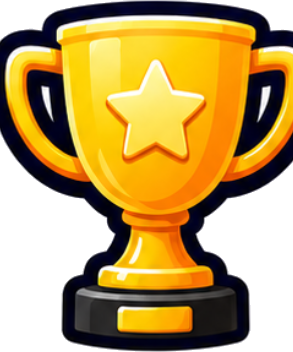
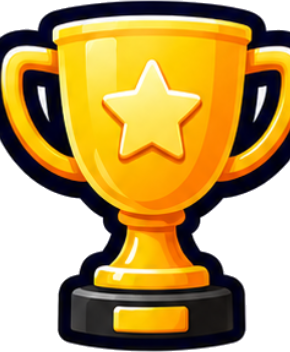
fix(brand): re-slice trophy asset with both handles intact
The trophy slice was cropped inside the handles, so every icon render
showed an amputated cup. Re-extracted from the master lockup via
connected-component isolation (290x352, no letter fragments). Set Goal
sheet now opens with the animated trophy as its hero.

diff --git a/src/components/modals/SetGoalModal.tsx b/src/components/modals/SetGoalModal.tsx
@@ -2,6 +2,7 @@ import React, { useEffect, useState } from 'react';
 import { Pressable, StyleSheet, Text, View } from 'react-native';
 import { Ionicons } from '@expo/vector-icons';
 
+import { TydifiedLogo } from '../brand/TydifiedLogo';
 import { Avatar } from '../ui/Avatar';
 import { Button } from '../ui/Button';
 import { Input } from '../ui/Input';
@@ -152,6 +153,9 @@ export function SetGoalModal({ visible, onClose, onCreated }: SetGoalModalProps)
         </>
       }
     >
+      <View style={styles.trophyHero}>
+        <TydifiedLogo variant="icon" iconSize={56} animated />
+      </View>
       <View>
         <Text style={styles.label}>For which child</Text>
         {children.length === 0 ? (
@@ -257,6 +261,10 @@ export function SetGoalModal({ visible, onClose, onCreated }: SetGoalModalProps)
 
 const makeStyles = (C: Palette) =>
   StyleSheet.create({
+    trophyHero: {
+      alignItems: 'center',
+      paddingVertical: spacing.s8,
+    },
     label: {
       ...typography.caption,
       color: C.textMid,

diff --git a/src/components/brand/TydifiedLogo.tsx b/src/components/brand/TydifiedLogo.tsx
@@ -15,7 +15,7 @@ const TROPHY = require('../../../assets/tydified-trophy.png');
 const BASE_W = 1466;
 const BASE_H = 532;
 const CONFETTI_BOX = { left: 650, top: 0, width: 280, height: 163 };
-const TROPHY_RATIO = 293 / 352;
+const TROPHY_RATIO = 290 / 352;
 
 // Motion — same restraint as TydifiedIcon: small ranges, sinusoidal easing,
 // native driver. The wordmark breathes; the confetti drifts up and settles a
